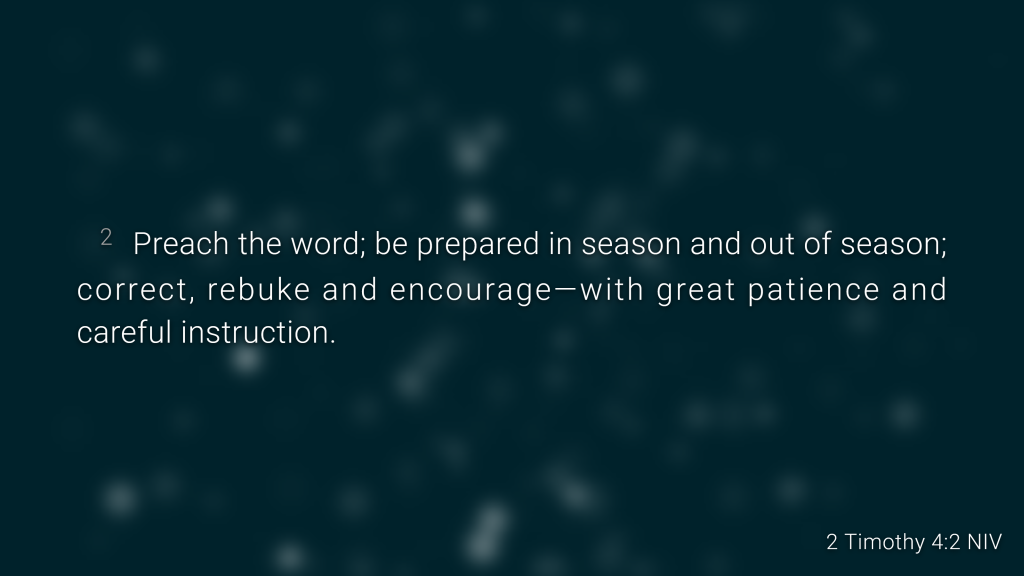
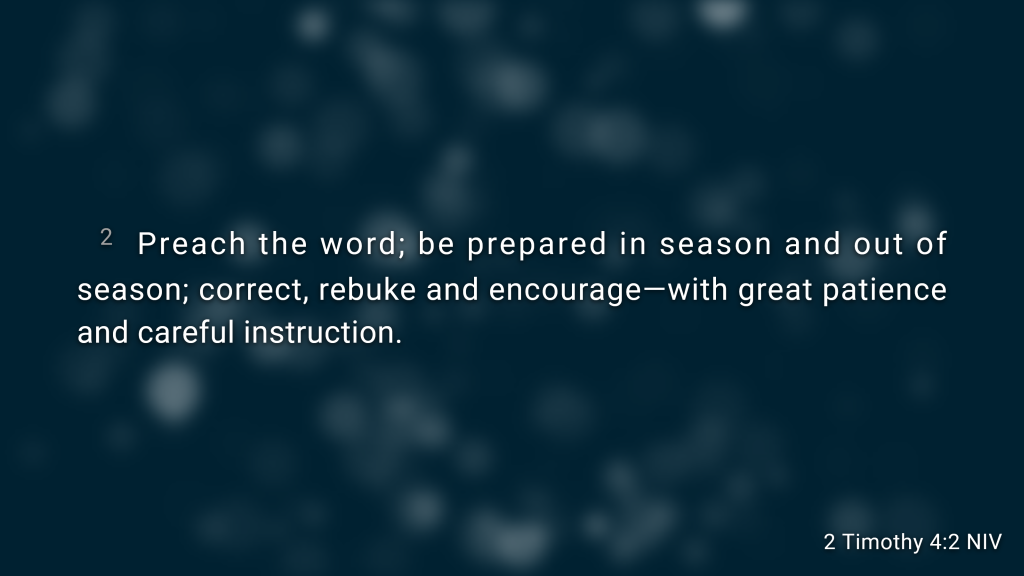
Updated sparkles + reorder

diff --git a/backgrounds/sparkles.js b/backgrounds/sparkles.js
@@ -33,9 +33,9 @@
     var mouseY = null;
     var shapeNum = 300;
     var shapes = [];
-    var minSize = 10;
-    var maxSize = 25;
-    var fillStyleColor = 'white';
+    var minSize = 15;
+    var maxSize = 45;
+    var fillStyleColor = 'rgba(255,255,255,1)'; //'white';
     var fadeOutSpeed = 100; // 25
     var style = {
       black: 'black',
@@ -89,7 +89,7 @@
 
     Shape.prototype.updatePosition = function() {
       this.x += rand(0, 2) - 1;//Math.random();
-      this.y += rand(0, 5)/5.0;
+      this.y += -rand(0, 5)/2.0 + 0.8;
     };
     
     Shape.prototype.draw = function() {
@@ -98,7 +98,8 @@
       ctx.globalCompositeOperation = 'lighter';
       ctx.globalAlpha = this.ga;
       //ctx.fillStyle = 'rgb(123, 252, 100)';
-      ctx.fillStyle = fillStyleColor;
+	  ctx.fillStyle = 'rgba(255, 255, 255,0.6)';
+      //ctx.fillStyle = 'rgb(255,255,255)';
       ctx.beginPath();
       ctx.arc(this.x, this.y, this.r, 0, Math.PI * 2, false);
       ctx.fill();

diff --git a/backgrounds/sparkles.css b/backgrounds/sparkles.css
@@ -1,8 +1,8 @@
-@import url(https://fonts.googleapis.com/css2?family=Roboto:wght@300&display=swap);
+#@import url(https://fonts.googleapis.com/css2?family=Roboto:wght@300&display=swap);
 
 #source, #verse, #announcement {
-	font-family: 'Roboto' !important;
-	font-style: normal;
-    font-weight: 300;
+	#font-family: 'Roboto' !important;
+	#font-style: normal;
+    #font-weight: 300;
 	#font-family: 'Sedgwick Ave Display' !important;
 }

diff --git a/backgrounds/sparkles-inner.css b/backgrounds/sparkles-inner.css
@@ -7,7 +7,8 @@
 
 body {
   position: relative;
-  background: #00222B;
+  background: #002131;
+  #background: #00222B;
   filter: blur(15px);
 }
 
